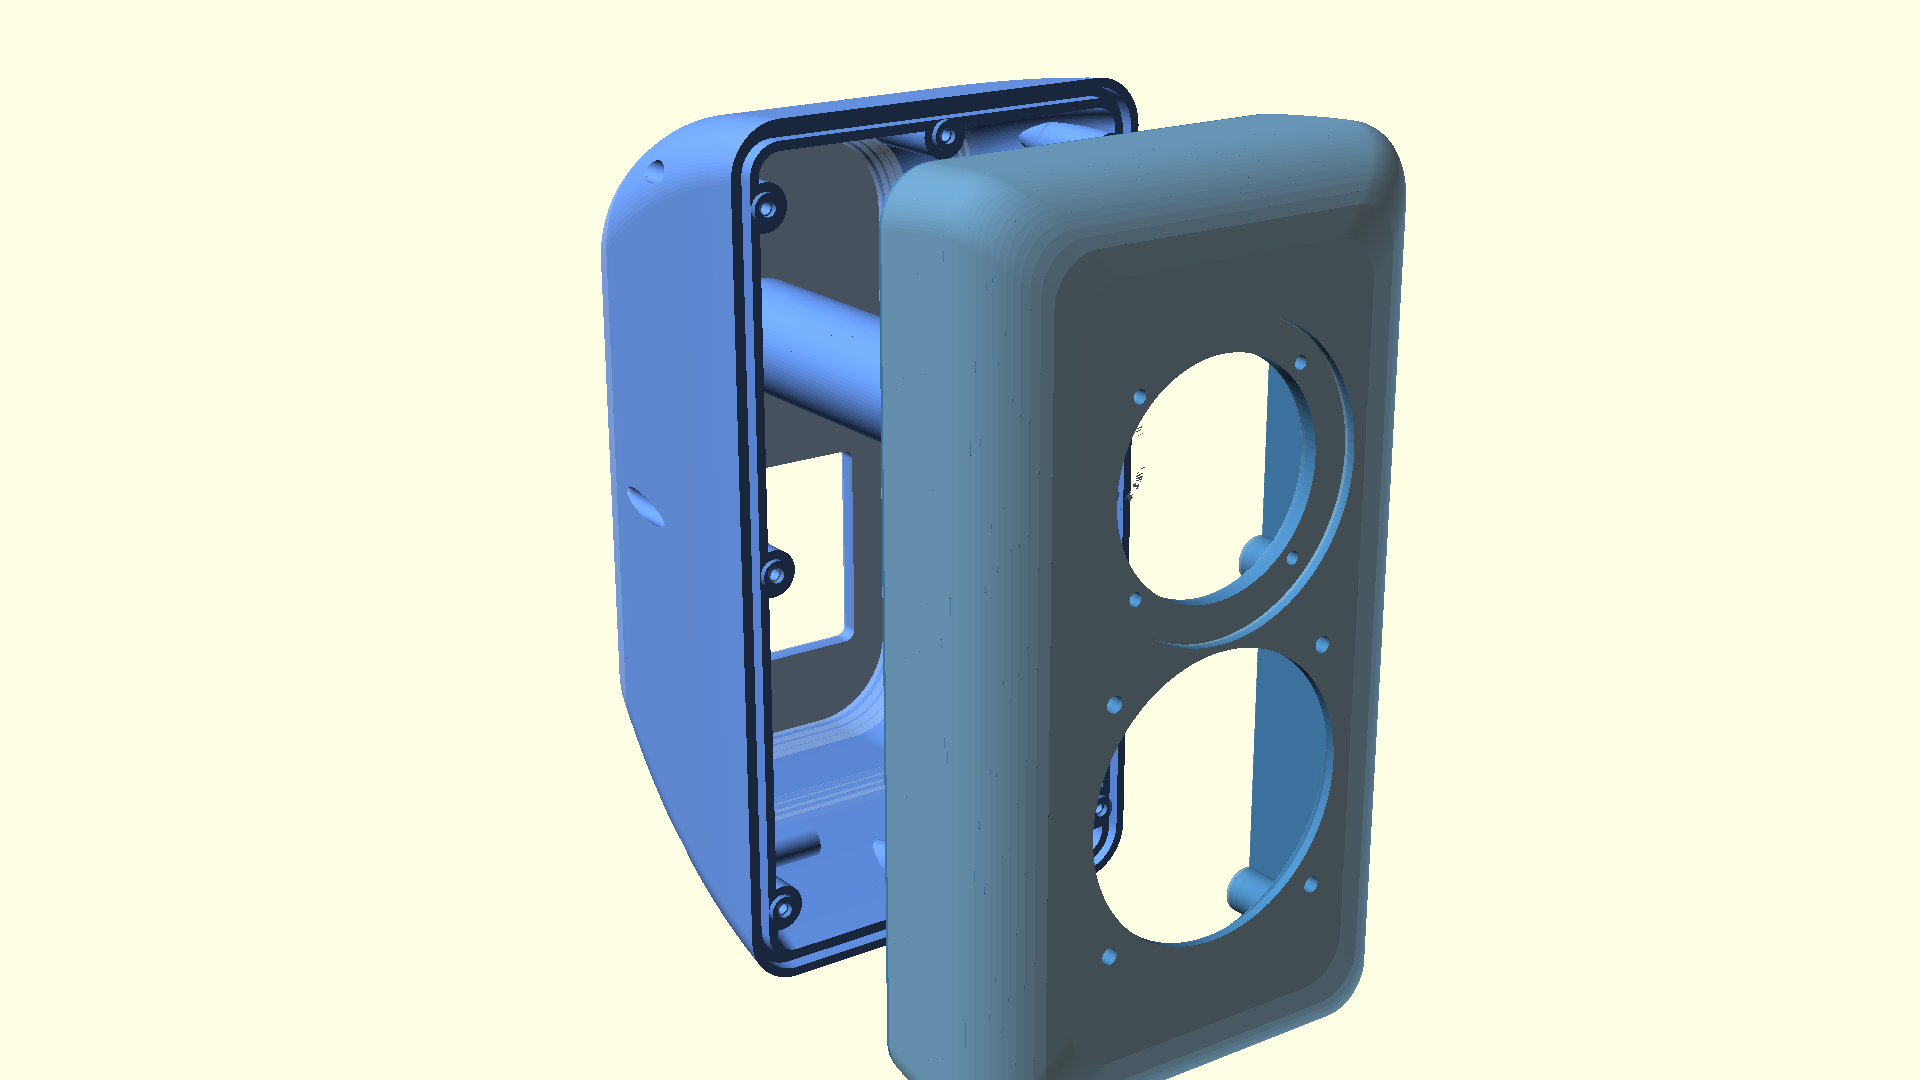
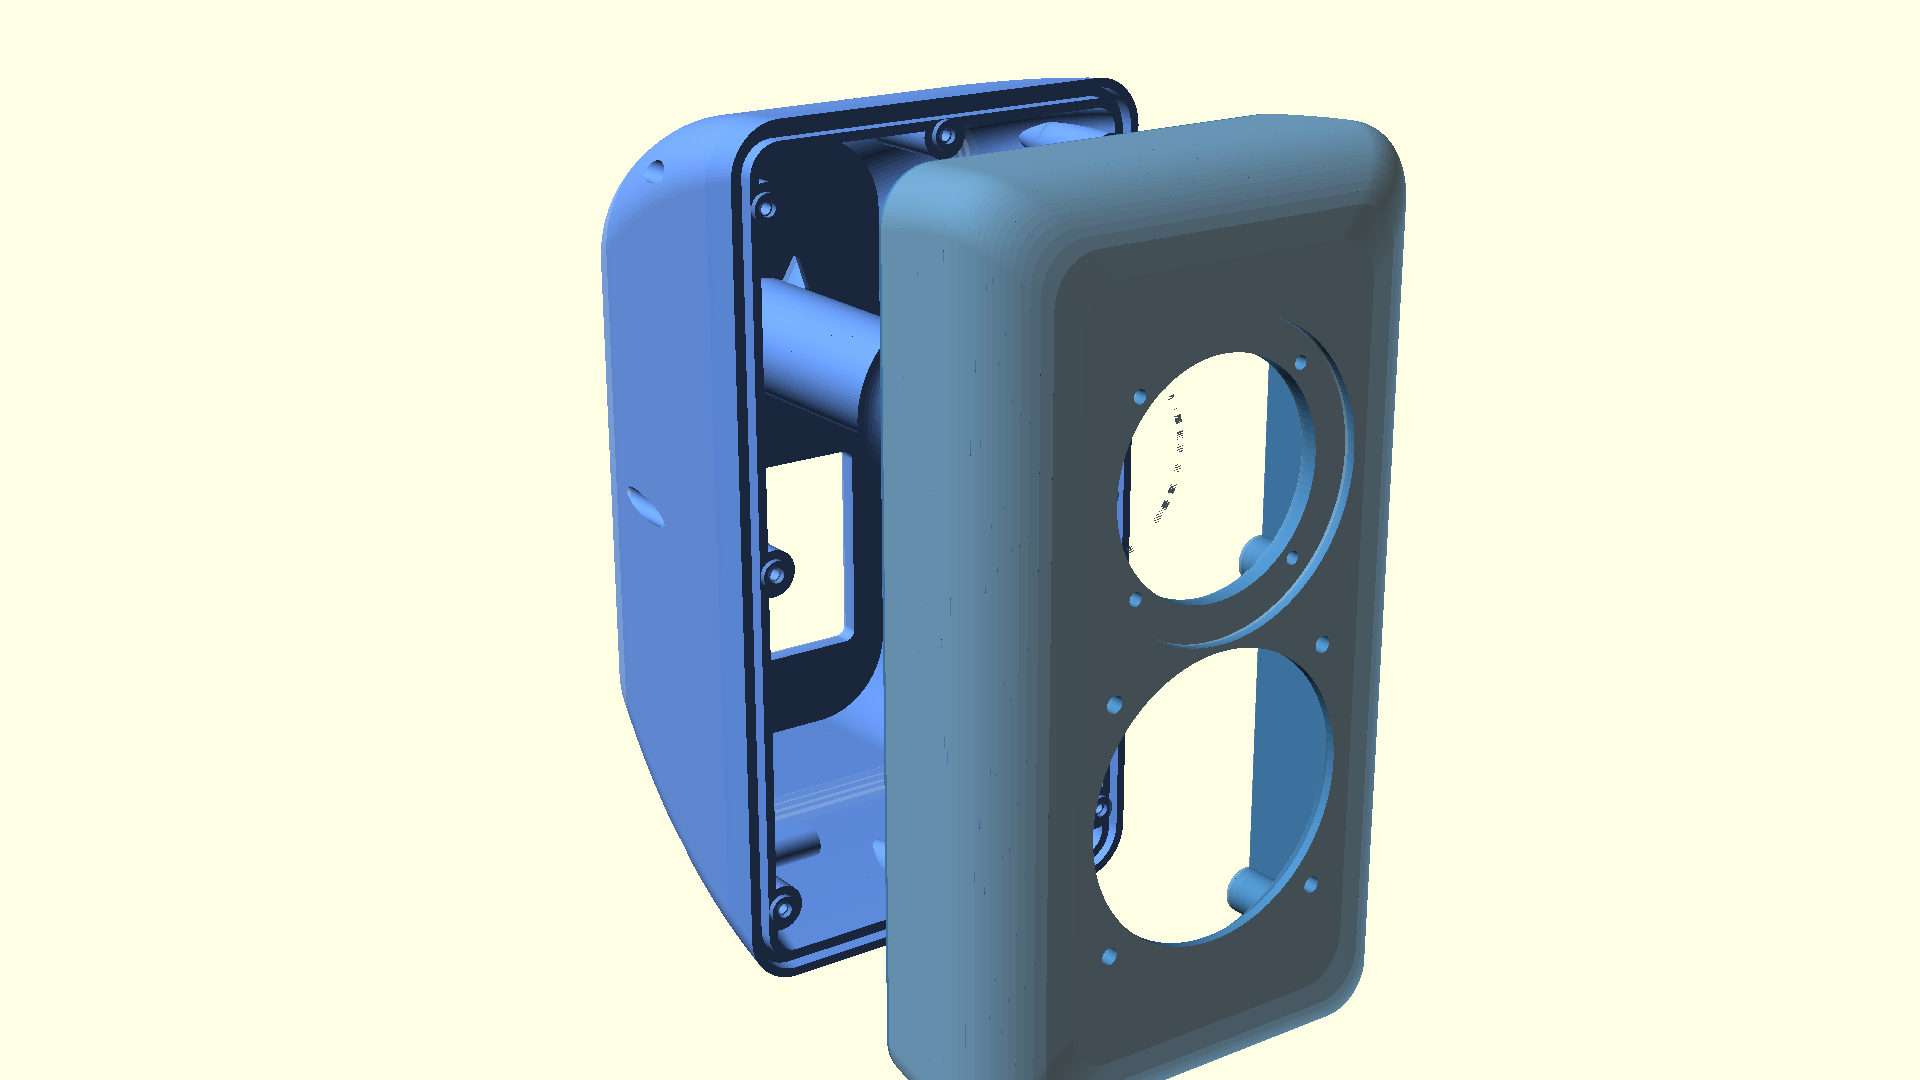
Port entry flare + reinforcement ribs
- Add 15mm concave entry flare at cavity-side port opening, matching
  the existing exit flare. Reduces turbulence at both port ends.
- Add bell-shaped tube solid (truncated cone) to provide material
  for the entry flare profile.
- Add 6 triangular gusset ribs at port tube-to-back-wall junction
  for improved FDM layer adhesion at this critical connection.
- Update volume estimation to account for entry bell displacement
  (net volume 5.46L, within 0.7% of 5.5L target).
- Update claude.md (Session 11), README.md, and analysis.md.
- Regenerate standard render set with new geometry.

Changed region(s): [[0.375, 0.3361, 0.4688, 0.7028], [0.375, 0.1222, 0.4688, 0.3056]]

diff --git a/analysis.md b/analysis.md
@@ -8,15 +8,15 @@ This document verifies that the Claudsters v2 enclosure design is mechanically s
 
 **Carmody spec:** 5.5 liters (0.19 ft³)
 
-**Claudsters v2:** 5.49 liters (net, after subtracting port tube and pillar displacement)
+**Claudsters v2:** 5.46 liters (net, after subtracting port tube, entry flare bell, and pillar displacement)
 
 The volume is computed via Simpson's rule on the inner cavity cross-sections at the front wall (z=10mm), midpoint (z=92.5mm), and back wall (z=175mm). The taper formula interpolates between inner baffle dimensions (145×280mm) and inner back dimensions (98×220mm) using a power-2.0 curve.
 
 Breakdown:
-- Gross cavity volume: ~5.63 L
-- Port tube displacement: -0.12 L (39.925mm OD × 114.3mm)
+- Gross cavity volume: ~5.64 L
+- Port tube + entry bell displacement: -0.16 L (tube: 39.925mm OD × 114.3mm, bell: truncated cone 70→40mm OD × 15mm)
 - Pillar displacement: -0.02 L (estimated, 8 front + 8 back pillars)
-- **Net air volume: 5.49 L** (within 0.2% of target)
+- **Net air volume: 5.46 L** (within 0.7% of target)
 
 For final verification, export `inner_cavity()` as STL and measure volume in slicing software.
 
@@ -26,7 +26,7 @@ For final verification, export `inner_cavity()` as STL and measure volume in sli
 
 **Claudsters v2:** 34.925mm diameter × 114.3mm long (exact conversion of Carmody's imperial specs)
 
-The port dimensions are unchanged from the original design. The Helmholtz resonance frequency depends on port area, port length, and box volume — all three are matched. The 15mm concave exit flare adds effective port length of approximately 3-5mm (partial end correction), which would shift tuning down by ~1-2 Hz. This is well within Carmody's stated tolerance and the flare's turbulence reduction benefit outweighs this negligible shift.
+The port dimensions are unchanged from the original design. The Helmholtz resonance frequency depends on port area, port length, and box volume — all three are matched. Both port ends now have 15mm concave flares (entry and exit). Each flare modifies the end correction by approximately 3-5mm of effective port length. The combined effect may shift tuning down by ~2-3 Hz from the nominal 55 Hz. This is within Carmody's stated tolerance, and the flares' primary benefit — reduced air turbulence and chuffing noise at higher SPL — outweighs this minor shift.
 
 ### 1.3 Baffle Diffraction
 
@@ -168,10 +168,13 @@ The binding post plate is 100.6mm square, mounted at y=-45mm on the back face. T
 
 ### 3.3 Port Tube vs Inner Cavity
 
-- Port outer diameter: 34.925 + 2×2.5 = 39.925mm
+- Port outer diameter (straight section): 34.925 + 2×2.5 = 39.925mm
+- Port entry flare bell: max outer diameter = 34.925 + 2×15 + 2×2.5 = 69.925mm at z=60.7mm, tapering to 39.925mm at z=75.7mm
 - Port at (x=0, y=+45) from z=60.7 to z=175mm
-- Inner cavity width at z=60.7: ~143mm → port center to side wall: 71.5mm >> 20mm radius ✓
-- Inner cavity height at y=+45: port top edge at y=65mm, inner cavity top at ~138mm → 73mm clearance ✓
+- Inner cavity width at z=60.7: ~143mm → port center to side wall: 71.5mm >> 35mm bell radius ✓
+- Inner cavity height at y=+45: port top edge at y=80mm (bell mouth), inner cavity top at ~138mm → 58mm clearance ✓
+- Crossover bosses on side walls (x=±hw) do not intersect the centered port bell ✓
+- **Reinforcement ribs:** 6 triangular gusset ribs at the tube-to-back-wall junction (z=160–175mm). Each rib spans 15mm along the tube and 10mm radially beyond the tube surface, 2mm thick. Total rib volume: ~0.001L (negligible). Ribs are clipped to inner cavity via intersection(). ✓
 
 ### 3.4 Bolt Position vs Driver Cutout Clearance
 

diff --git a/claude.md b/claude.md
@@ -108,6 +108,17 @@ Established a CLI render pipeline for visual validation and documentation:
 - **`render.sh`**: Shell script generating all 7 renders in parallel (~1.5s each, `--preview` mode, 1920×1080).
 - **Key insight:** Previous camera angles were wrong because they didn't account for the coordinate transform. The front baffle is at Y=0 (negative Y camera position), back at Y=185 (positive Y).
 
+### Session 11: Port Entry Flare
+
+Added a matching concave flare to the cavity-side port opening, mirroring the existing exit flare:
+
+- **15mm radius quarter-circle entry flare** at the port tube front face (z = split_z). Smooth concave bell transitions from bore diameter (34.9mm) outward to 64.9mm at the mouth.
+- **Bell-shaped tube solid** provides material for the flare: truncated cone from flare mouth + wall thickness down to normal tube diameter over 15mm depth.
+- **Volume impact:** Entry bell displaces ~0.018L additional volume. Net air volume drops to 5.46L (0.7% below 5.5L target). Compensable with ~1mm depth increase if needed.
+- **Acoustic impact:** Entry flare modifies the port's flanged end correction, potentially lowering tuning frequency by ~2-3 Hz. The primary benefit is reduced air turbulence and chuffing noise at higher SPL.
+- **No conflicts:** Bell clears all crossover bosses (on side walls at x=±hw), terminal cutout, and pillars. Port center at (0, 45) with max bell radius ~35mm stays well within the ~70mm inner half-width at the split plane.
+- **6 triangular gusset ribs** at the port tube-to-back-wall junction. Each rib is a hull of a vertical strip on the tube surface and a horizontal strip on the back wall, forming a triangular brace. 15mm tall along the tube, 10mm radial extent, 2mm thick. Spreads the tube-to-wall load across more layer lines for better FDM adhesion (the tube axis is parallel to layer lines, making this junction rely entirely on interlayer adhesion without the ribs).
+
 ## Current Locked Parameters
 
 | Parameter | Value | Rationale |
@@ -120,7 +131,9 @@ Established a CLI render pipeline for visual validation and documentation:
 | Roundover | 28 mm radius | Diffraction control > ~1950 Hz |
 | Split plane | z = 60.7 mm | Port tube stays in back half |
 | Port | 34.925mm dia × 114.3mm long | Carmody spec: 55 Hz tuning |
-| Port flare | 15 mm concave radius | Reduced turbulence noise |
+| Port flare (exit) | 15 mm concave radius | Reduced turbulence at back face |
+| Port flare (entry) | 15 mm concave radius | Matching bell at cavity side |
+| Port ribs | 6× gussets, 15×10×2mm | Layer adhesion at back wall junction |
 | Pillar dia | 16 mm | 8 pairs at split-plane perimeter |
 | Back pillar | 30mm + 15° taper (30mm cone) | Wall blend + bolt coverage |
 | Bolt pattern | 8× M4, 12mm inset from edge | Split-plane perimeter |

diff --git a/README.md b/README.md
@@ -8,7 +8,7 @@ A parametric OpenSCAD enclosure for Paul Carmody's [Speedster](https://sites.goo
 |------|-------------------|---------------|
 | Internal volume | 5.5 L | 5.49 L |
 | Port tuning | ~55 Hz | ~55 Hz (same port) |
-| Port | 1.375" dia × 4.5" long | 34.925mm × 114.3mm + 15mm exit flare |
+| Port | 1.375" dia × 4.5" long | 34.925mm × 114.3mm + 15mm entry/exit flares |
 | Woofer | Tang Band W4-1720 (surface) | Same (surface mount, M4 heat-set inserts) |
 | Tweeter | Fountek NeoCD1.0 (flush) | Same (flush recess, M3 heat-set inserts) |
 | Wall material | 1/2" MDF | 10mm PETG (5-6 perimeters) |
@@ -30,7 +30,7 @@ A parametric OpenSCAD enclosure for Paul Carmody's [Speedster](https://sites.goo
 
 **28mm front edge roundover** smooths the baffle-to-side transition with a circular profile, reducing diffraction effects above ~1950 Hz. The original MDF box had sharp baffle edges.
 
-**Port exit flare** with 15mm concave radius at the back face reduces turbulence noise at the port opening.
+**Port flares** with 15mm concave radius at both the back face (exit) and cavity side (entry) reduce turbulence noise and chuffing at the port openings. Six triangular gusset ribs reinforce the port tube-to-back-wall junction for reliable FDM layer adhesion.
 
 **Woofer rear chamfer** at 45° opens the baffle bore behind the driver, reducing back-wave reflections off the cutout edge.
 
